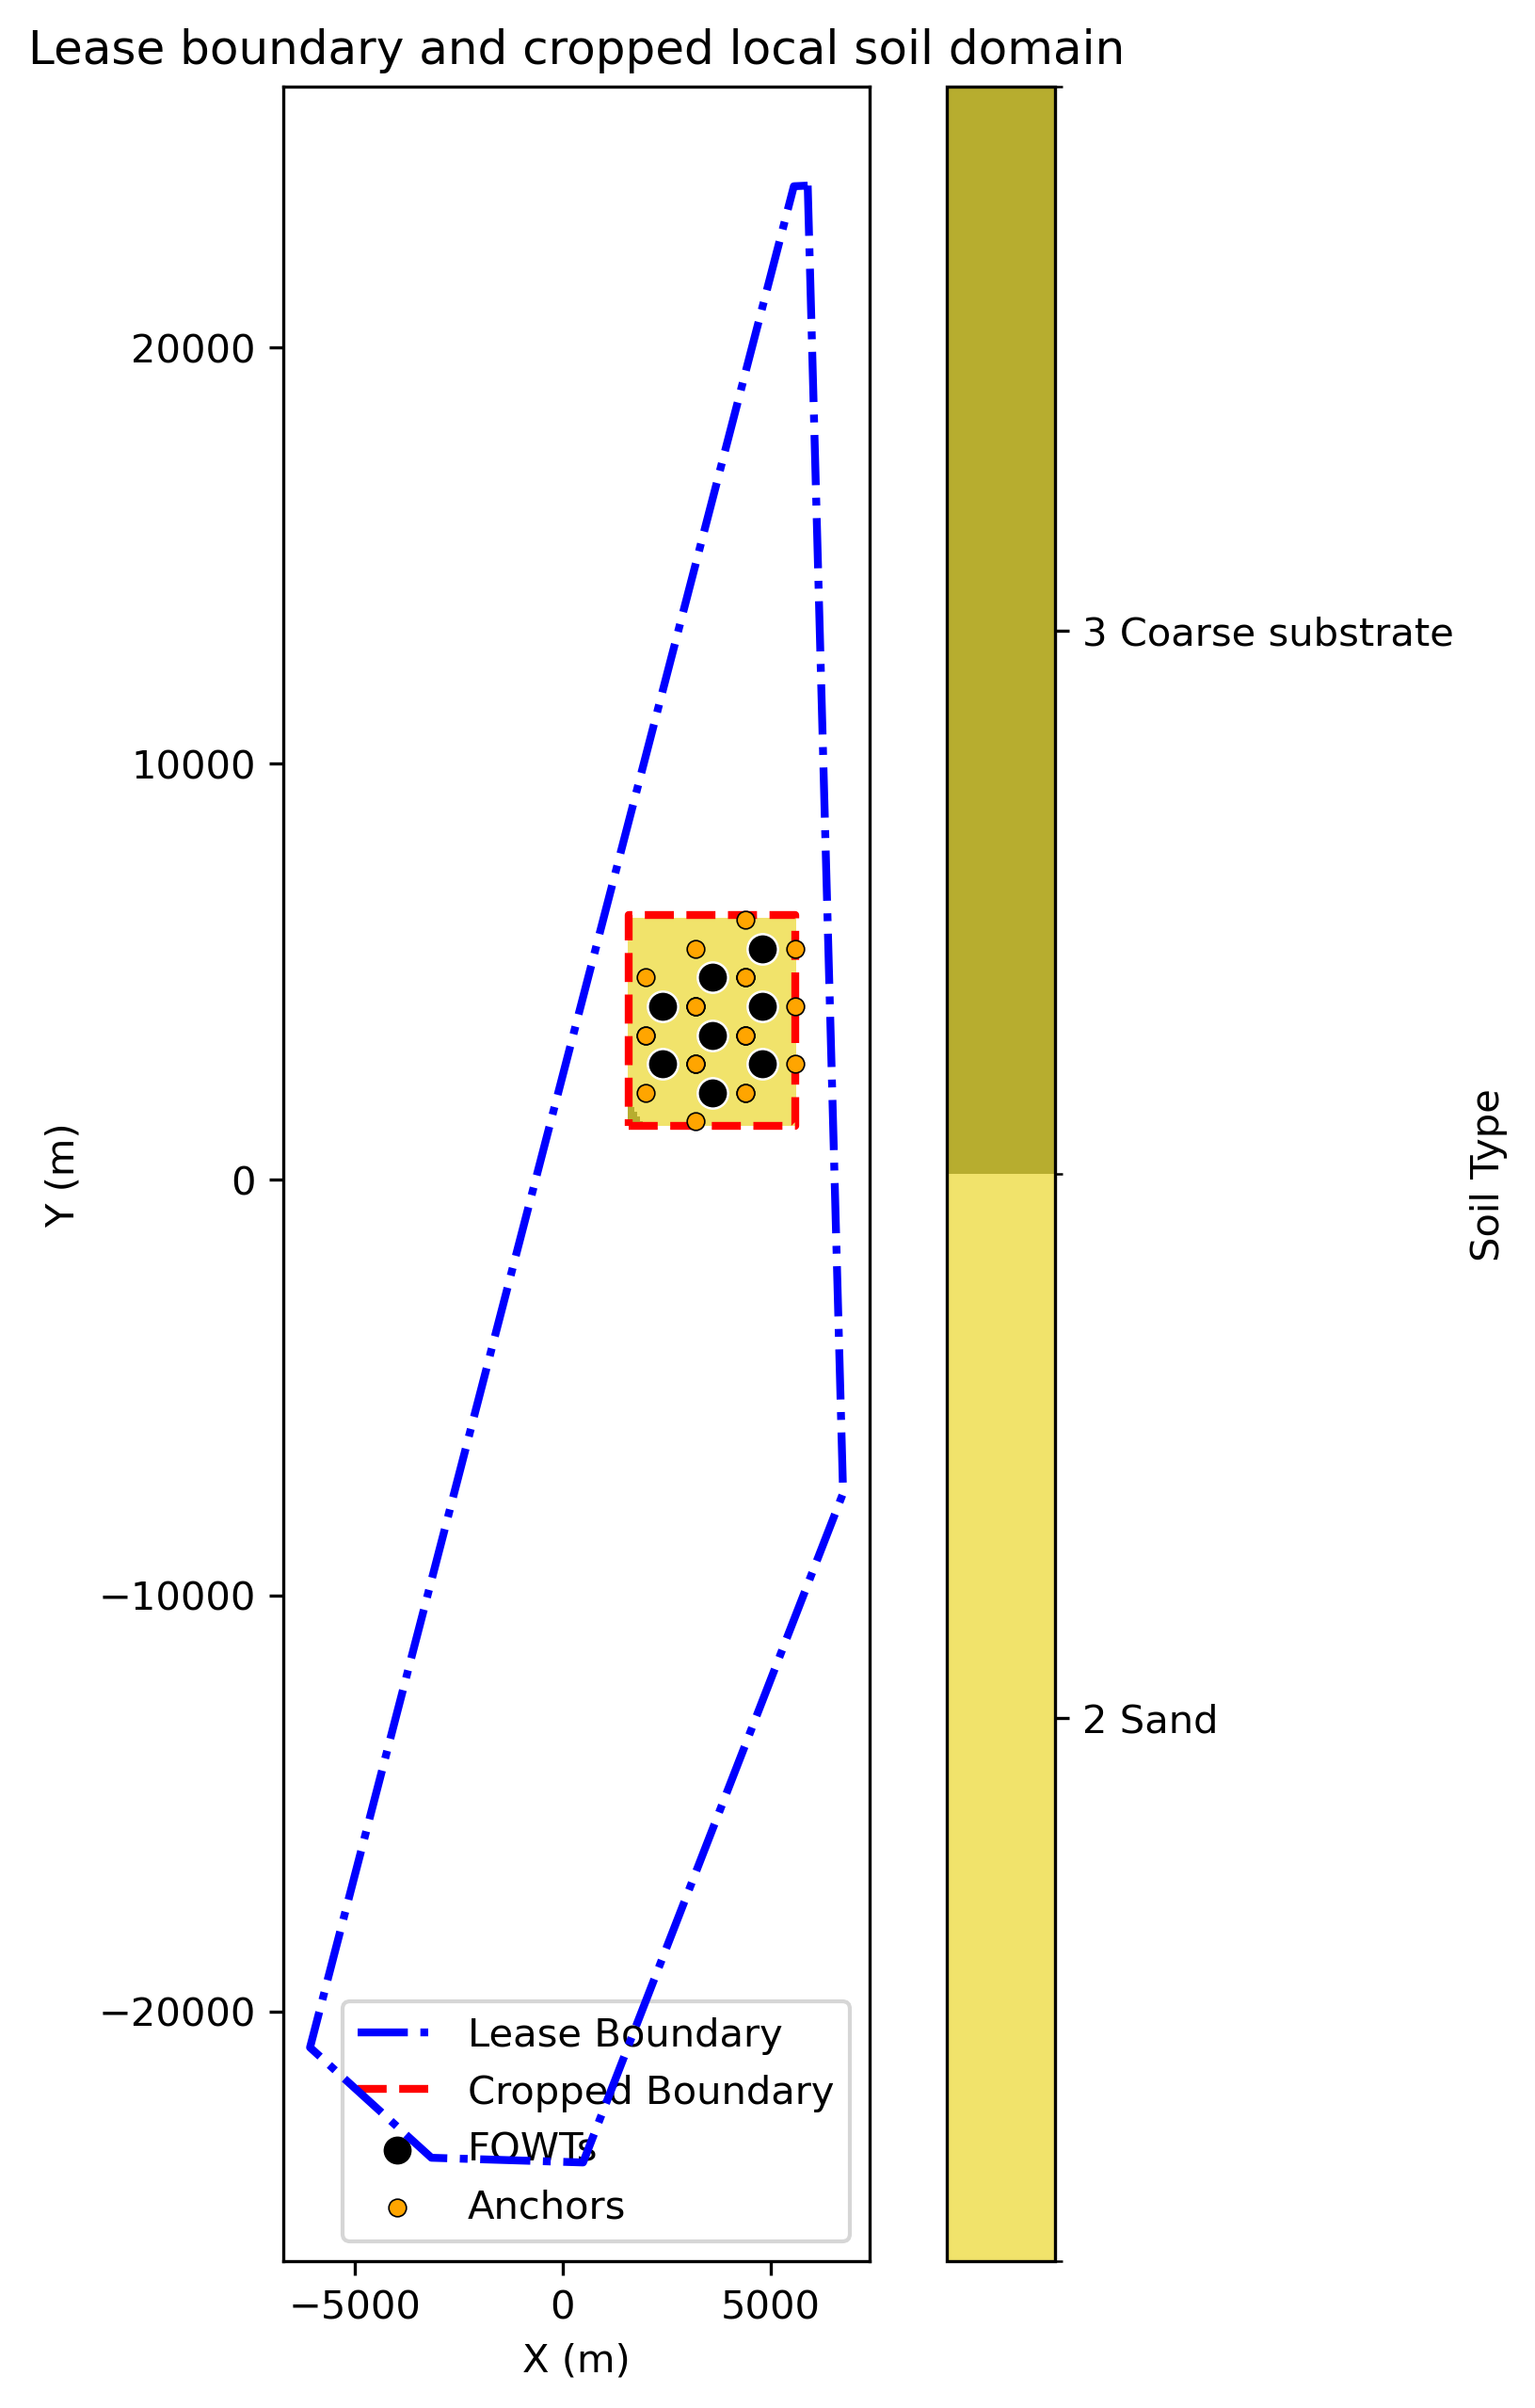
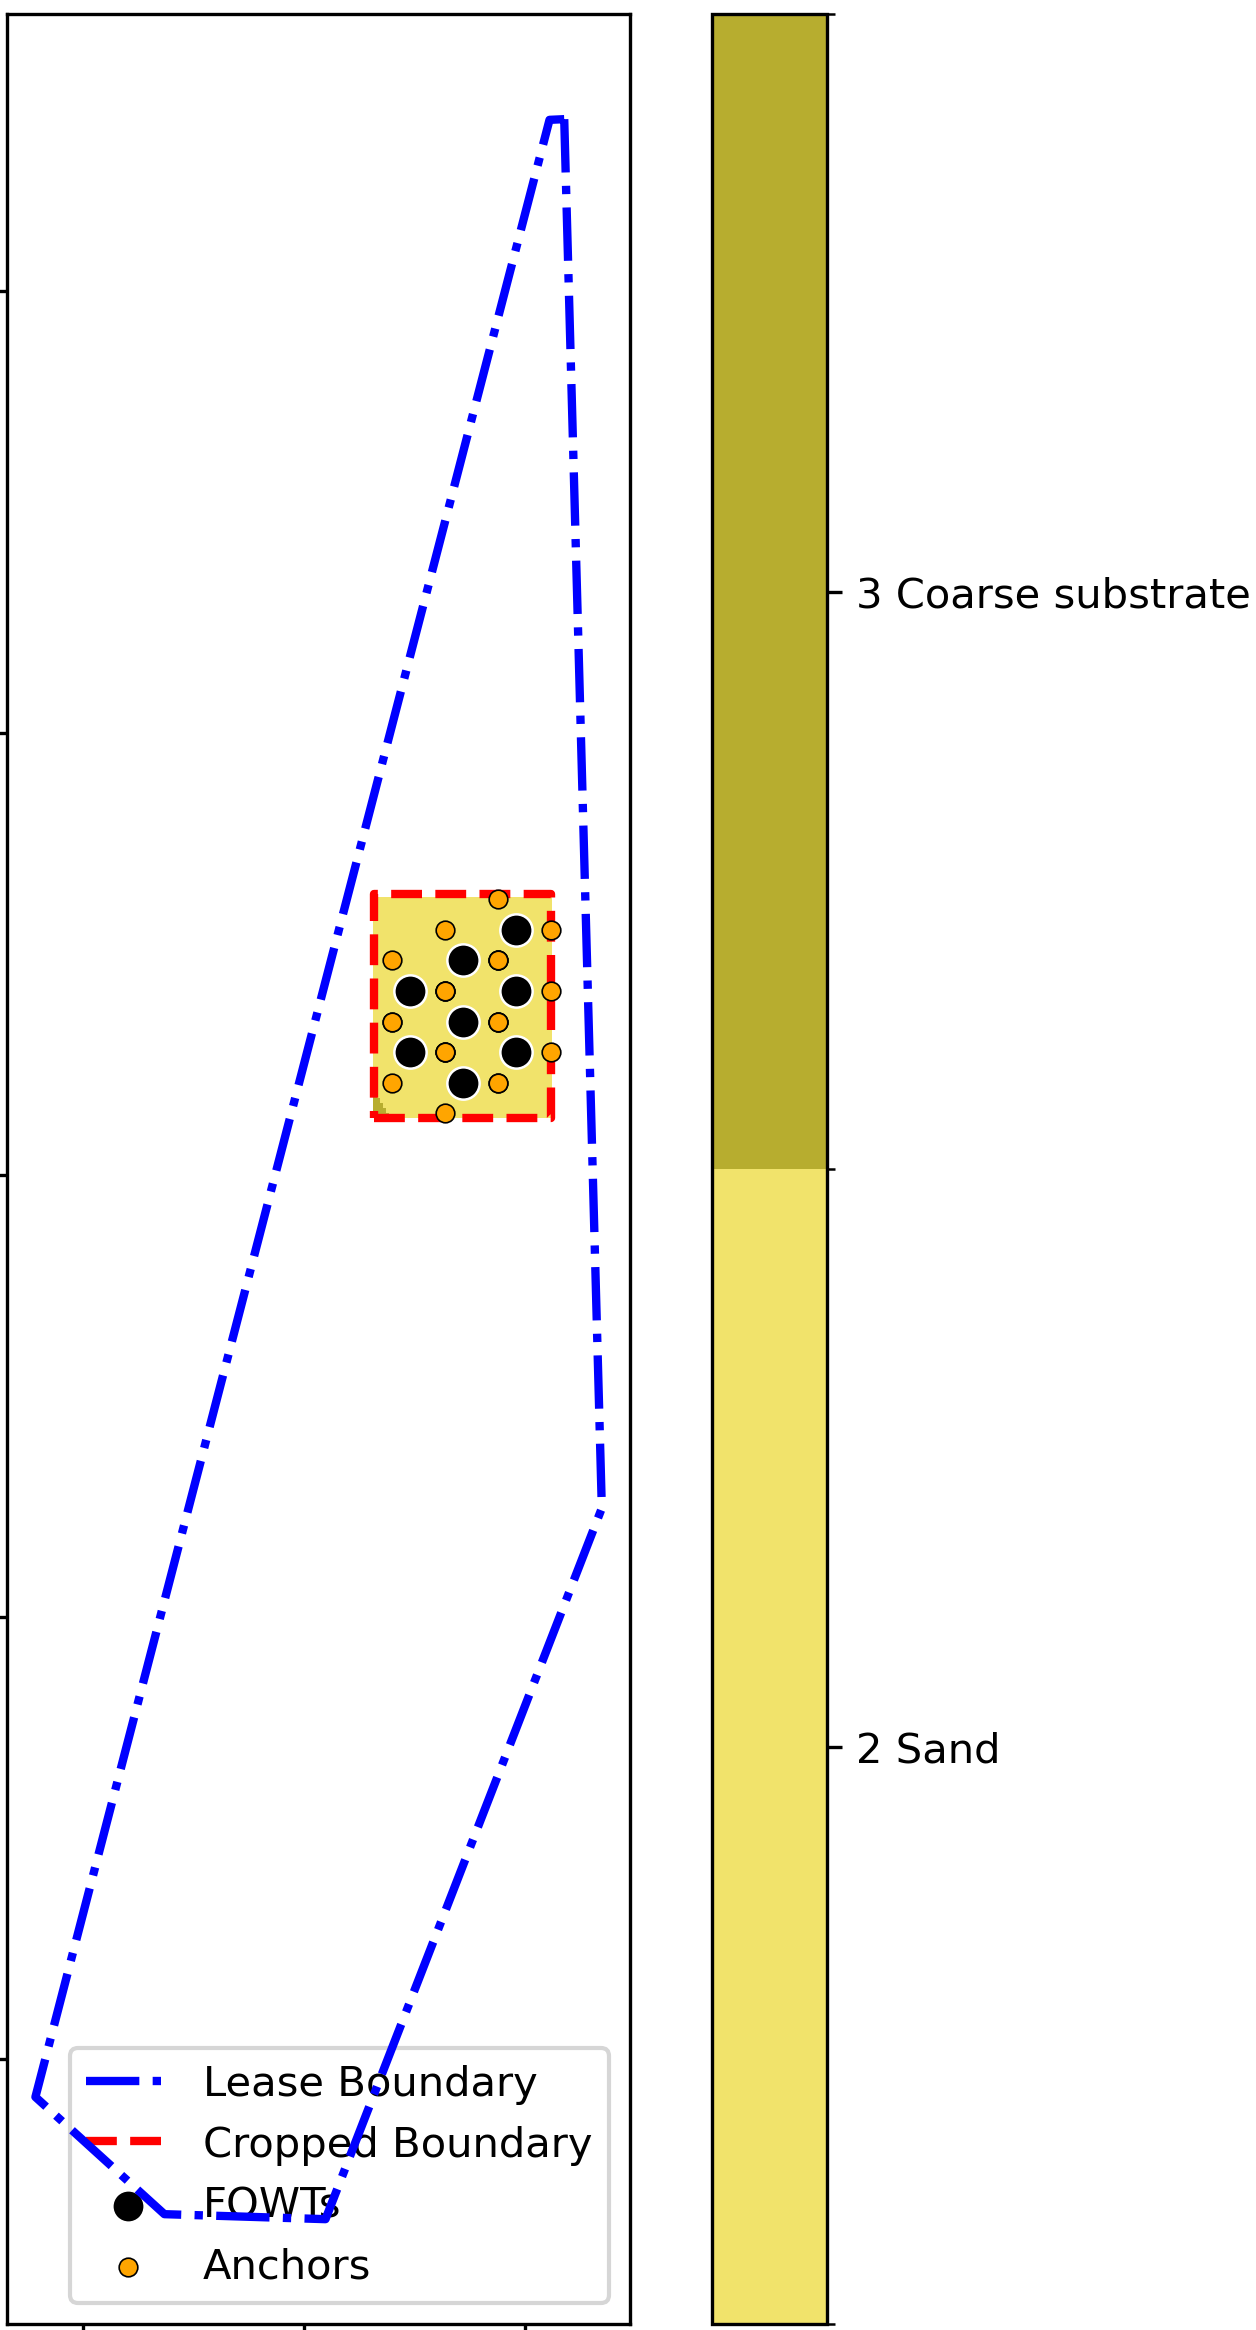
upgrades imgs in morie_anchor

diff --git a/academy.md b/academy.md
@@ -154,7 +154,7 @@ description: "University programs, online campus, corporate training and R&D in 
 
     <article class="plat-tool-card" aria-labelledby="rd-methods-heading">
       <div class="plat-tool-card__media">
-        <img src="{{ '/img/posts/morie_layout/morie_layout2.png' | relative_url }}"
+        <img src="{{ '/img/posts/morie_layout/morie_layout.png' | relative_url }}"
              alt="Floating wind farm layout optimisation methodology"
              loading="lazy">
       </div>
@@ -179,7 +179,7 @@ description: "University programs, online campus, corporate training and R&D in 
 
     <article class="plat-tool-card plat-tool-card--reverse" aria-labelledby="rd-dissemination-heading">
       <div class="plat-tool-card__media">
-        <img src="{{ '/img/posts/morie_soil/09_lease_crop_context.png' | relative_url }}"
+        <img src="{{ '/img/posts/morie_soil/3D_cropped_8turbines.png' | relative_url }}"
              alt="Tomographic subsurface reconstruction for knowledge dissemination"
              loading="lazy">
       </div>